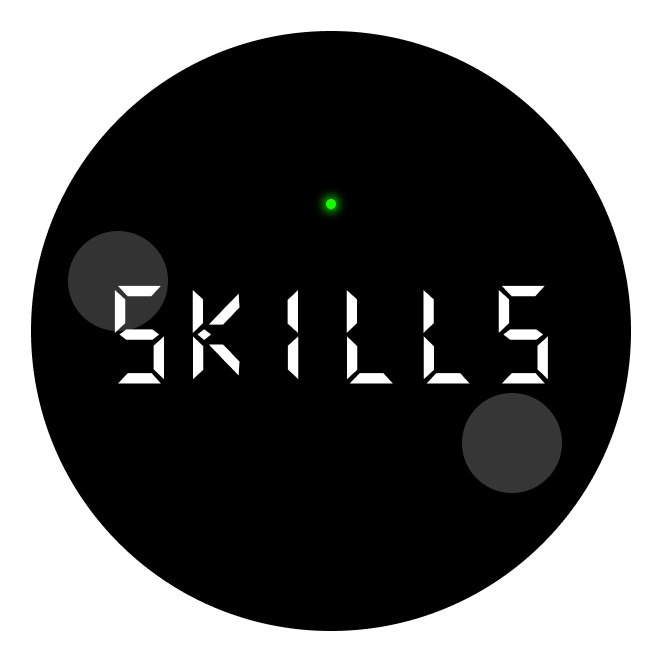
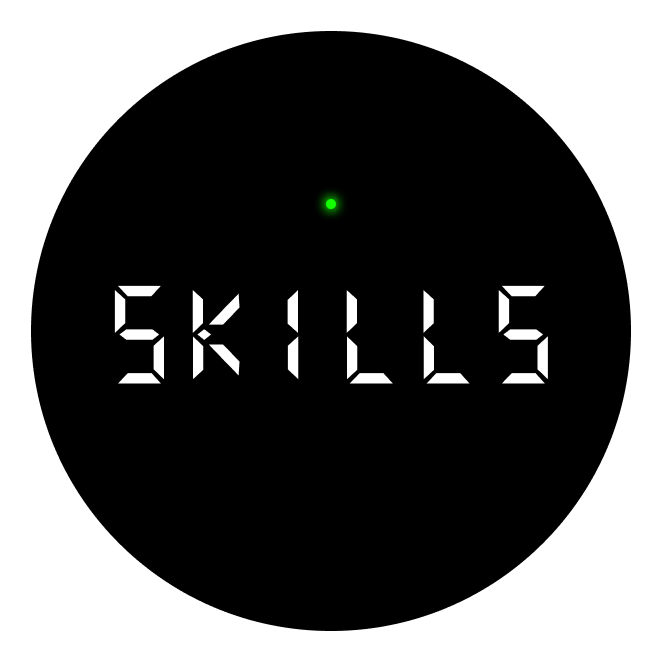
update code and pic
.....

Changed region(s): [[0.0906, 0.3323, 0.2719, 0.5136], [0.6949, 0.574, 0.8459, 0.7553]]

diff --git a/skill_style.css b/skill_style.css
@@ -50,11 +50,6 @@ body{
     box-shadow: 0 0 20px 1px white;
 }
 
-.designA{
-    position: absolute;
-    top: 280px;
-}
-
 .mid1{
     padding: 10px;
 }
@@ -74,12 +69,12 @@ body{
     position: absolute;
     padding: 5px;
     top: -30px;
-    left: 110px;
+    left: -120px;
     width: 110px;
     /* color: black; */
     /* display: none; */
-    border-top: 1px solid rgb(0, 217, 255);
-    border-right: 1px solid rgb(0, 217, 255);
+    border-top: 1px solid rgb(255, 255, 255);
+    border-right: 1px solid rgb(255, 255, 255);
     border-radius: 0px 10px ;
     font-size: 12px;
 }
@@ -93,13 +88,13 @@ body{
     width: 100px;
     border-radius: 50%;
     padding: 5px;
-    border: 1px solid rgb(0, 217, 255);
+    border: 1px solid rgb(255, 255, 255);
     border-radius: 50%;
     transition: 1s all;
 }
 
 .skill1:hover{
-    box-shadow: 0 0 10px 2px rgb(0, 217, 255);
+    box-shadow: 0 0 10px 2px rgb(255, 255, 255);
 }
 
 .design1{
@@ -164,13 +159,13 @@ body{
 .text2{
     position: absolute;
     padding: 5px;
-    top: 90px;
+    top: 0px;
     left: 120px;
     width: 110px;
     /* color: black; */
     /* display: none; */
-    border-top: 1px solid rgb(0, 217, 255);
-    border-right: 1px solid rgb(0, 217, 255);
+    border-top: 1px solid rgb(255, 255, 255);
+    border-right: 1px solid rgb(255, 255, 255);
     border-radius: 0px 10px ;
     font-size: 12px;
 }
@@ -215,20 +210,19 @@ body{
     right: 208px;
 }
 
+.design11{
+    position: absolute;
+    top: 526px;
+    right: 492px;
+    transform: rotate(0deg);
+}
 
-
-
-
-
-
-
-
-
-
-
-
-
-
+.design12{
+    position: absolute;
+    top: 526px;
+    right: 743px;
+    transform: rotate(90deg);
+}
 
 .hero6{
     position: absolute;
@@ -240,7 +234,7 @@ body{
     width: 180px;
     border-radius: 50%;
     padding: 5px;
-    border: 1px solid rgb(0, 217, 255);
+    border: 1px solid rgb(255, 255, 255);
     border-radius: 50%;
     transition: 1s all;
 }
@@ -259,7 +253,7 @@ body{
     width: 50px;
     border-radius: 50%;
     padding: 5px;
-    border: 1px solid rgb(0, 217, 255);
+    border: 1px solid rgb(255, 255, 255);
     border-radius: 50%;
     transition: 1s all;
 }

diff --git a/skill0.html b/skill0.html
@@ -12,10 +12,6 @@
             <img src="./img/Frame 9.png" alt="" style="width: 200px;" >
         </div>
 
-        <!-- <div class="designA">
-            <img src="./img/Group 21.png" alt="" width="100px" height="500px">
-        </div> -->
-
         <div class="hero1">
             <div class="hoverrr">
                 <div class="text1">
@@ -24,8 +20,6 @@
                 <img class="skill1" src="./img/Frame 1.png" alt="">
             </div>
         </div>
-
-
 
         <div class="design1">
             <h2>_________________</h2>
@@ -63,7 +57,7 @@
 
         <div class="hero3">
             <div class="hoverrr">
-                <div class="text2">
+                <div class="text1">
                     <p>Number of projects : 1 <br>Number of projects : 1 <br>Number of projects : 1 </p>
                 </div>
                 <img class="skill1" src="./img/Frame 10.png" alt="">
@@ -80,7 +74,7 @@
 
         <div class="hero4">
             <div class="hoverrr">
-                <div class="text1">
+                <div class="text2">
                     <p>Number of projects : 1 <br>Number of projects : 1 <br>Number of projects : 1 </p>
                 </div>
                 <img class="skill1" src="./img/Frame 4.png" alt="">
@@ -97,20 +91,20 @@
 
         <div class="hero5">
             <div class="hoverrr">
-                <div class="text1">
+                <div class="text2">
                     <p>Number of projects : 1 <br>Number of projects : 1 <br>Number of projects : 1 </p>
                 </div>
                 <img class="skill1" src="./img/Frame 5.png" alt="">
             </div>
         </div>
 
+        <div class="design11">
+            <h2>_______________________</h2>
+        </div>
 
-
-
-
-
-
-
+        <div class="design12">
+            <h2>__</h2>
+        </div>
 
         <div class="hero6">
             <div class="hoverrr">
